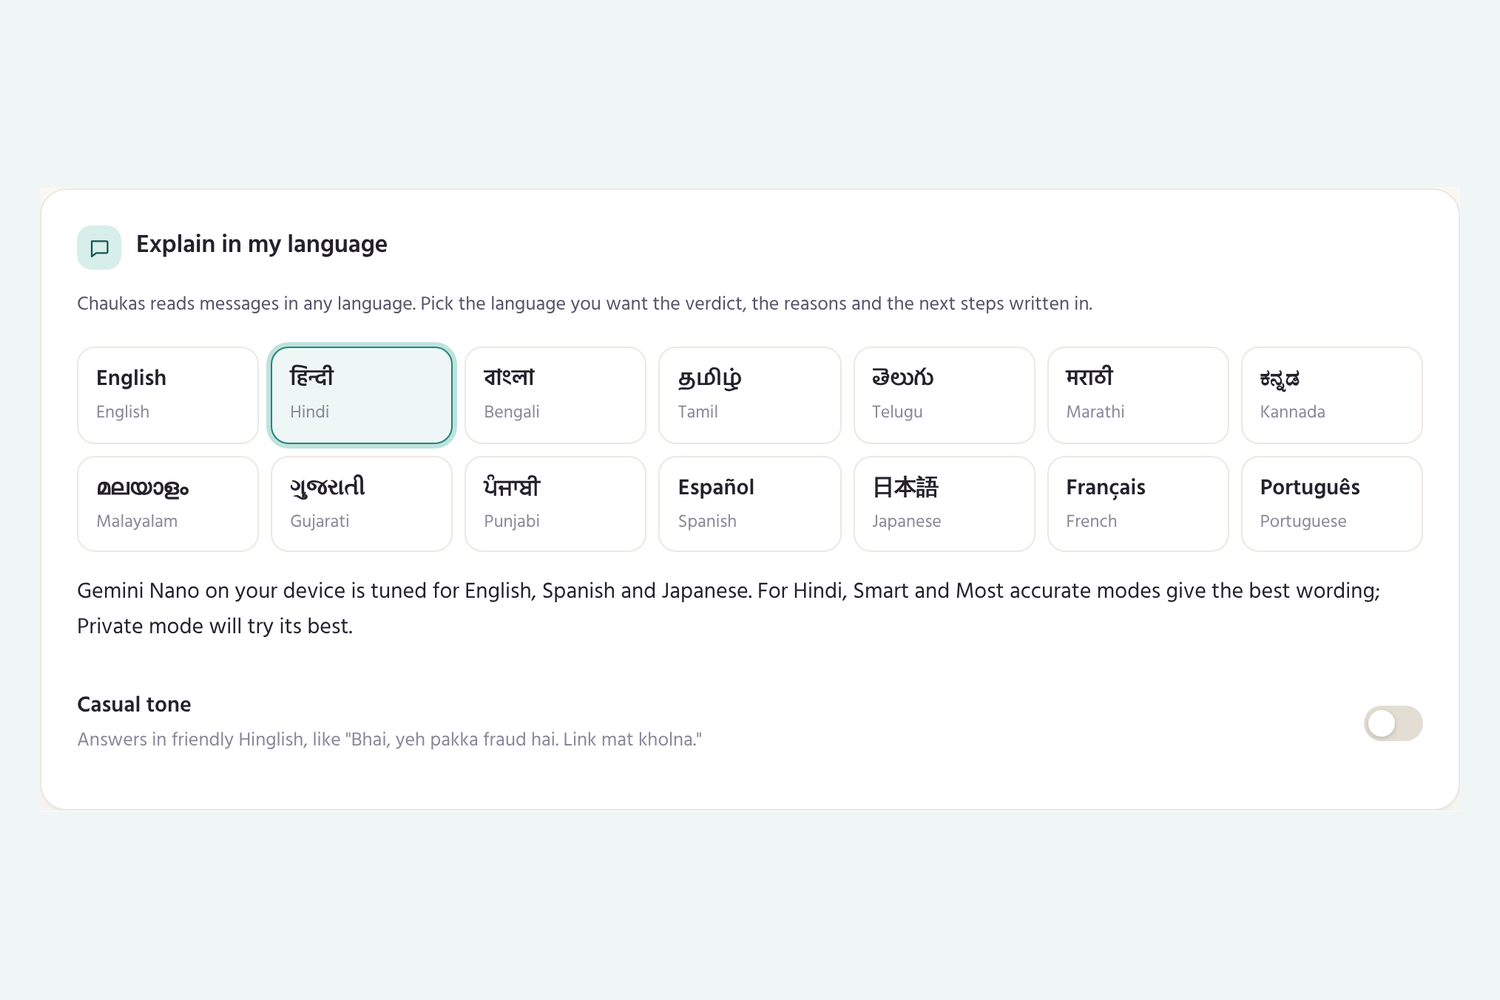
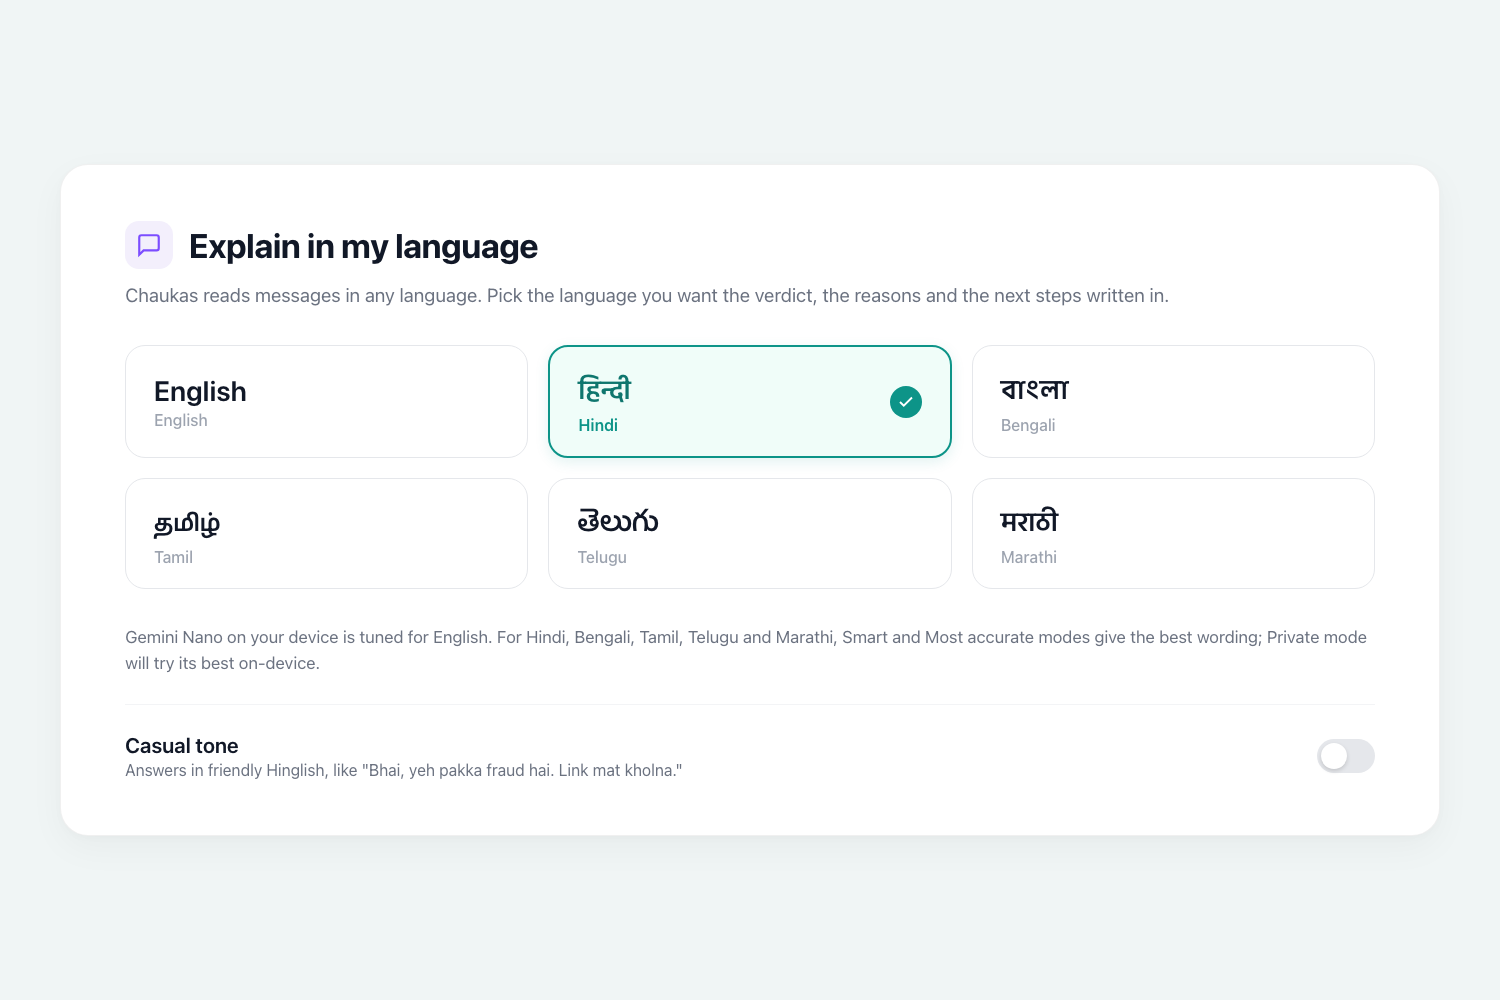
feat(settings): scope explanation languages strictly to 6 supported Indian languages

diff --git a/web/src/data/settings.ts b/web/src/data/settings.ts
@@ -60,18 +60,10 @@ export const LANGUAGES: { name: string; native: string; code: string }[] = [
   { name: 'Tamil', native: 'தமிழ்', code: 'ta' },
   { name: 'Telugu', native: 'తెలుగు', code: 'te' },
   { name: 'Marathi', native: 'मराठी', code: 'mr' },
-  { name: 'Kannada', native: 'ಕನ್ನಡ', code: 'kn' },
-  { name: 'Malayalam', native: 'മലയാളം', code: 'ml' },
-  { name: 'Gujarati', native: 'ગુજરાતી', code: 'gu' },
-  { name: 'Punjabi', native: 'ਪੰਜਾਬੀ', code: 'pa' },
-  { name: 'Spanish', native: 'Español', code: 'es' },
-  { name: 'Japanese', native: '日本語', code: 'ja' },
-  { name: 'French', native: 'Français', code: 'fr' },
-  { name: 'Portuguese', native: 'Português', code: 'pt' },
 ];
 
 /** Output languages Gemini Nano in Chrome is tuned for. */
-export const ON_DEVICE_LANGUAGES = ['en', 'es', 'ja'];
+export const ON_DEVICE_LANGUAGES = ['en'];
 
 export function languageCode(name: string): string {
   return LANGUAGES.find((l) => l.name === name)?.code ?? 'en';

diff --git a/web/src/views/Settings.tsx b/web/src/views/Settings.tsx
@@ -77,7 +77,7 @@ export function SettingsView() {
         </div>
         {!ON_DEVICE_LANGUAGES.includes(languageCode(s.language)) && (
           <p className="hint" style={{ marginTop: 10 }}>
-            Gemini Nano on your device is tuned for English, Spanish and Japanese. For {s.language}, Smart and Most accurate modes give the best wording; Private mode will try its best.
+            Gemini Nano on your device is tuned for English. For {s.language}, Smart and Most accurate modes give the best wording; Private mode will try its best.
           </p>
         )}
         <div style={{ marginTop: 12 }}>

diff --git a/scripts/generate_languages_card.py b/scripts/generate_languages_card.py
@@ -1,0 +1,125 @@
+#!/usr/bin/env python3
+"""
+Generates the updated 3:2 image for 09_multilingual_indian_languages.png
+showing ONLY the 6 supported languages:
+English, Hindi, Bengali, Tamil, Telugu, Marathi.
+"""
+
+import os
+from PIL import Image, ImageDraw, ImageFont
+
+def generate_language_image():
+    W, H = 1500, 1000
+    im = Image.new('RGB', (W, H), (240, 245, 245))
+    draw = ImageDraw.Draw(im)
+
+    # Main Card
+    card_x0, card_y0 = 60, 120
+    card_x1, card_y1 = 1440, 880
+    
+    # Card shadow
+    draw.rounded_rectangle([(card_x0 + 4, card_y0 + 6), (card_x1 + 4, card_y1 + 6)], radius=24, fill=(225, 232, 232))
+    # Card surface
+    draw.rounded_rectangle([(card_x0, card_y0), (card_x1, card_y1)], radius=24, fill=(255, 255, 255), outline=(230, 236, 236), width=1)
+
+    f_helv = '/System/Library/Fonts/HelveticaNeue.ttc'
+    f_dev = '/System/Library/Fonts/Supplemental/Devanagari Sangam MN.ttc'
+    f_bng = '/System/Library/Fonts/Supplemental/Bangla Sangam MN.ttc'
+    f_tam = '/System/Library/Fonts/Supplemental/Tamil Sangam MN.ttc'
+    f_tel = '/System/Library/Fonts/Supplemental/Telugu Sangam MN.ttc'
+
+    font_title = ImageFont.truetype(f_helv, 36, index=1)
+    font_desc = ImageFont.truetype(f_helv, 20, index=0)
+    font_subtext = ImageFont.truetype(f_helv, 18, index=0)
+    font_toggle_title = ImageFont.truetype(f_helv, 22, index=1)
+    font_toggle_desc = ImageFont.truetype(f_helv, 18, index=0)
+
+    # Header icon (lilac badge with message icon)
+    draw.rounded_rectangle([(card_x0 + 50, card_y0 + 50), (card_x0 + 94, card_y0 + 94)], radius=12, fill=(240, 235, 250))
+    # Draw simple chat bubble vector
+    draw.rounded_rectangle([(card_x0 + 62, card_y0 + 62), (card_x0 + 82, card_y0 + 78)], radius=4, outline=(130, 100, 210), width=2)
+    draw.polygon([(card_x0 + 66, card_y0 + 78), (card_x0 + 66, card_y0 + 84), (card_x0 + 72, card_y0 + 78)], fill=(130, 100, 210))
+
+    # Header title
+    draw.text((card_x0 + 110, card_y0 + 54), "Explain in my language", font=font_title, fill=(25, 30, 35))
+    
+    # Description
+    desc_txt = "Chaukas reads messages in any language. Pick the language you want the verdict, the reasons and the next steps written in."
+    draw.text((card_x0 + 50, card_y0 + 115), desc_txt, font=font_desc, fill=(90, 100, 110))
+
+    # 6 Languages Grid: 2 rows of 3 columns
+    langs = [
+        {"name": "English", "native": "English", "font": ImageFont.truetype(f_helv, 28, index=1), "active": False},
+        {"name": "Hindi", "native": "हिन्दी", "font": ImageFont.truetype(f_dev, 28, index=1), "active": True},
+        {"name": "Bengali", "native": "বাংলা", "font": ImageFont.truetype(f_bng, 28, index=1), "active": False},
+        {"name": "Tamil", "native": "தமிழ்", "font": ImageFont.truetype(f_tam, 28, index=1), "active": False},
+        {"name": "Telugu", "native": "తెలుగు", "font": ImageFont.truetype(f_tel, 28, index=1), "active": False},
+        {"name": "Marathi", "native": "मराठी", "font": ImageFont.truetype(f_dev, 28, index=1), "active": False},
+    ]
+
+    grid_x = card_x0 + 50
+    grid_y = card_y0 + 175
+    pill_w = 410
+    pill_h = 110
+    gap_x = 25
+    gap_y = 20
+
+    for idx, l in enumerate(langs):
+        col = idx % 3
+        row = idx // 3
+        px0 = grid_x + col * (pill_w + gap_x)
+        py0 = grid_y + row * (pill_h + gap_y)
+        px1 = px0 + pill_w
+        py1 = py0 + pill_h
+
+        if l["active"]:
+            # Active pill styling (Teal mint background + teal border)
+            draw.rounded_rectangle([(px0, py0), (px1, py1)], radius=18, fill=(240, 248, 246), outline=(27, 111, 104), width=2)
+            draw.text((px0 + 30, py0 + 24), l["native"], font=l["font"], fill=(20, 85, 75))
+            draw.text((px0 + 30, py0 + 66), l["name"], font=ImageFont.truetype(f_helv, 17, index=0), fill=(27, 111, 104))
+            # Green checkmark badge
+            draw.ellipse([(px1 - 45, py0 + 38), (px1 - 20, py0 + 63)], fill=(27, 111, 104))
+            draw.line([(px1 - 37, py0 + 50), (px1 - 34, py0 + 55)], fill=(255, 255, 255), width=2)
+            draw.line([(px1 - 34, py0 + 55), (px1 - 27, py0 + 47)], fill=(255, 255, 255), width=2)
+        else:
+            # Inactive pill
+            draw.rounded_rectangle([(px0, py0), (px1, py1)], radius=18, fill=(255, 255, 255), outline=(225, 230, 232), width=2)
+            draw.text((px0 + 30, py0 + 24), l["native"], font=l["font"], fill=(30, 35, 40))
+            draw.text((px0 + 30, py0 + 66), l["name"], font=ImageFont.truetype(f_helv, 17, index=0), fill=(120, 130, 140))
+
+    # Gemini Nano tuning hint
+    hint_y = grid_y + 2 * (pill_h + gap_y) + 35
+    hint_p1 = "Gemini Nano on your device is tuned for English. For Hindi, Bengali, Tamil, Telugu and Marathi, Smart and"
+    hint_p2 = "Most accurate modes give the best wording; Private mode will try its best on-device."
+    draw.text((card_x0 + 50, hint_y), hint_p1, font=font_subtext, fill=(80, 90, 100))
+    draw.text((card_x0 + 50, hint_y + 26), hint_p2, font=font_subtext, fill=(80, 90, 100))
+
+    # Divider line
+    div_y = hint_y + 80
+    draw.line([(card_x0 + 50, div_y), (card_x1 - 50, div_y)], fill=(235, 240, 240), width=1)
+
+    # Casual Tone Row
+    row_y = div_y + 30
+    draw.text((card_x0 + 50, row_y), "Casual tone", font=font_toggle_title, fill=(25, 30, 35))
+    draw.text((card_x0 + 50, row_y + 32), 'Answers in friendly Hinglish, like "Bhai, yeh pakka fraud hai. Link mat kholna."', font=font_toggle_desc, fill=(100, 110, 120))
+
+    # Toggle switch
+    sw_x1 = card_x1 - 50
+    sw_x0 = sw_x1 - 65
+    sw_y0 = row_y + 12
+    sw_y1 = sw_y0 + 36
+    draw.rounded_rectangle([(sw_x0, sw_y0), (sw_x1, sw_y1)], radius=18, fill=(230, 235, 235), outline=(205, 215, 215), width=1)
+    draw.ellipse([(sw_x0 + 4, sw_y0 + 4), (sw_x0 + 32, sw_y0 + 32)], fill=(255, 255, 255))
+
+    # Save to all target paths
+    docs_gallery = '/Users/udishasingh/Build-HybridAI/docs/gallery/09_multilingual_indian_languages.png'
+    docs_screen = '/Users/udishasingh/Build-HybridAI/docs/screenshots/language.png'
+    brain_artifact = '/Users/udishasingh/.gemini/antigravity/brain/6697d563-f1f1-498b-85e9-2b8ae92136ce/09_multilingual_indian_languages.png'
+
+    im.save(docs_gallery)
+    im.save(docs_screen)
+    im.save(brain_artifact)
+    print(f"Saved updated 6-language gallery image: {docs_gallery}")
+
+if __name__ == '__main__':
+    generate_language_image()
